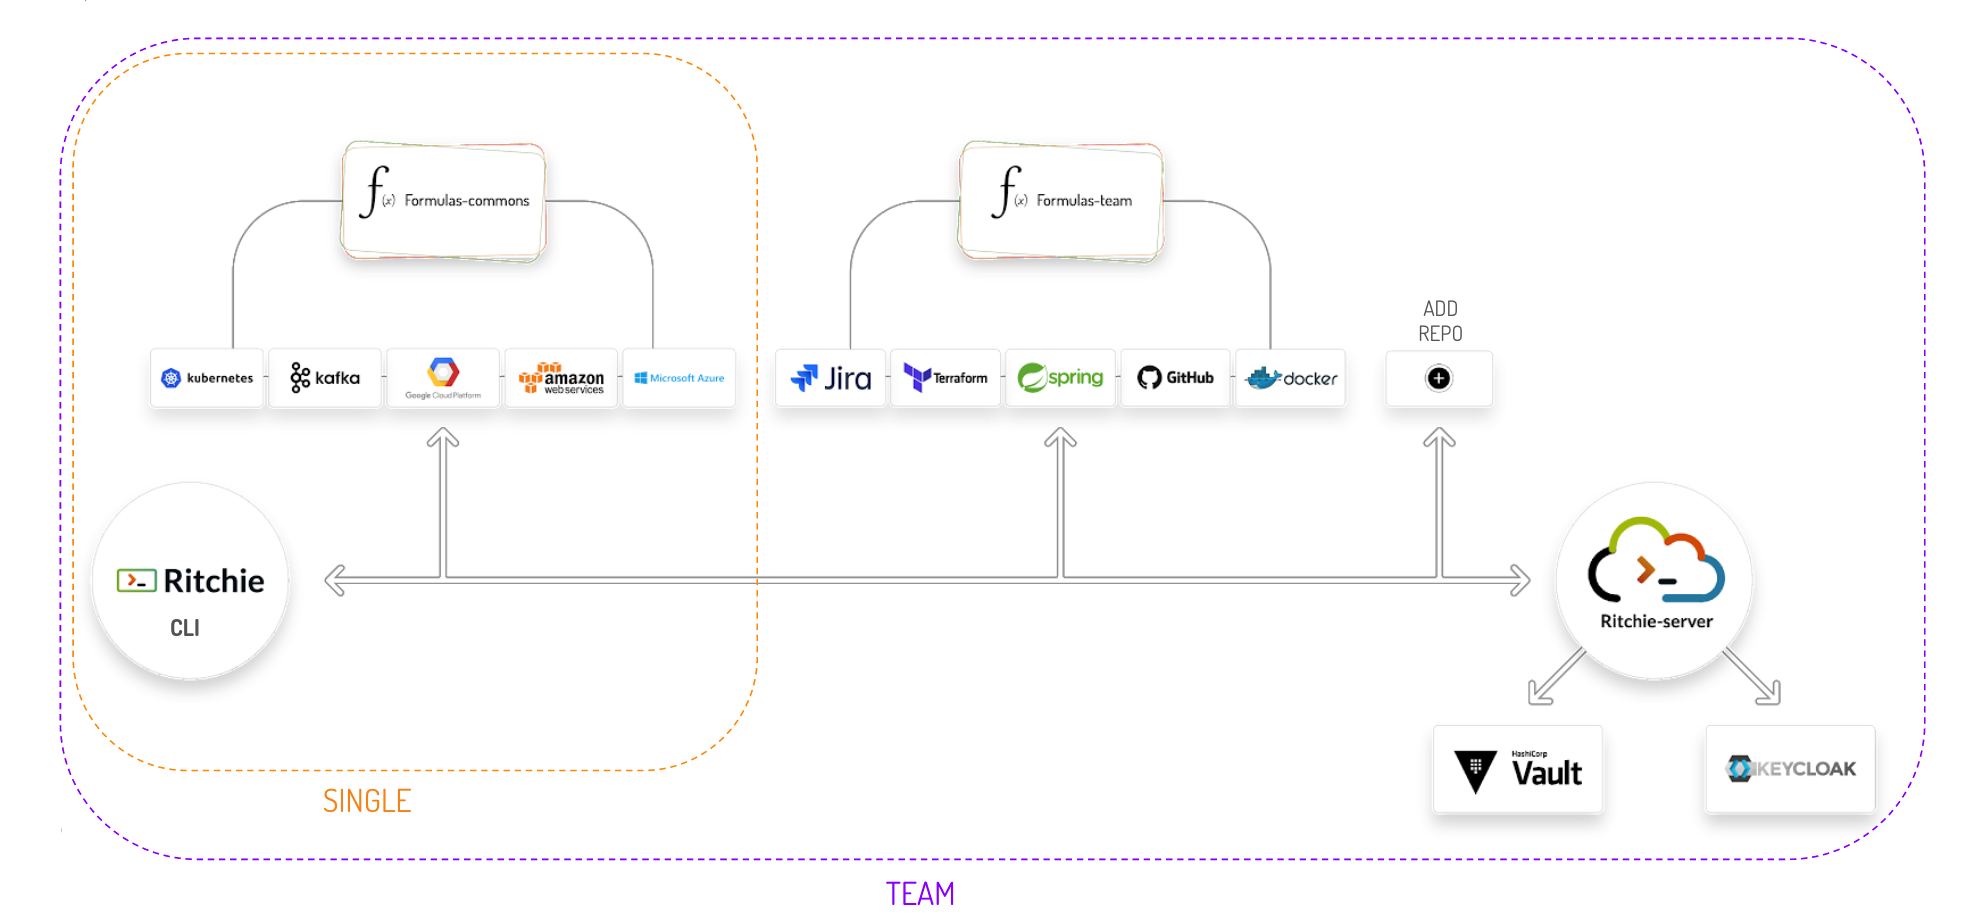
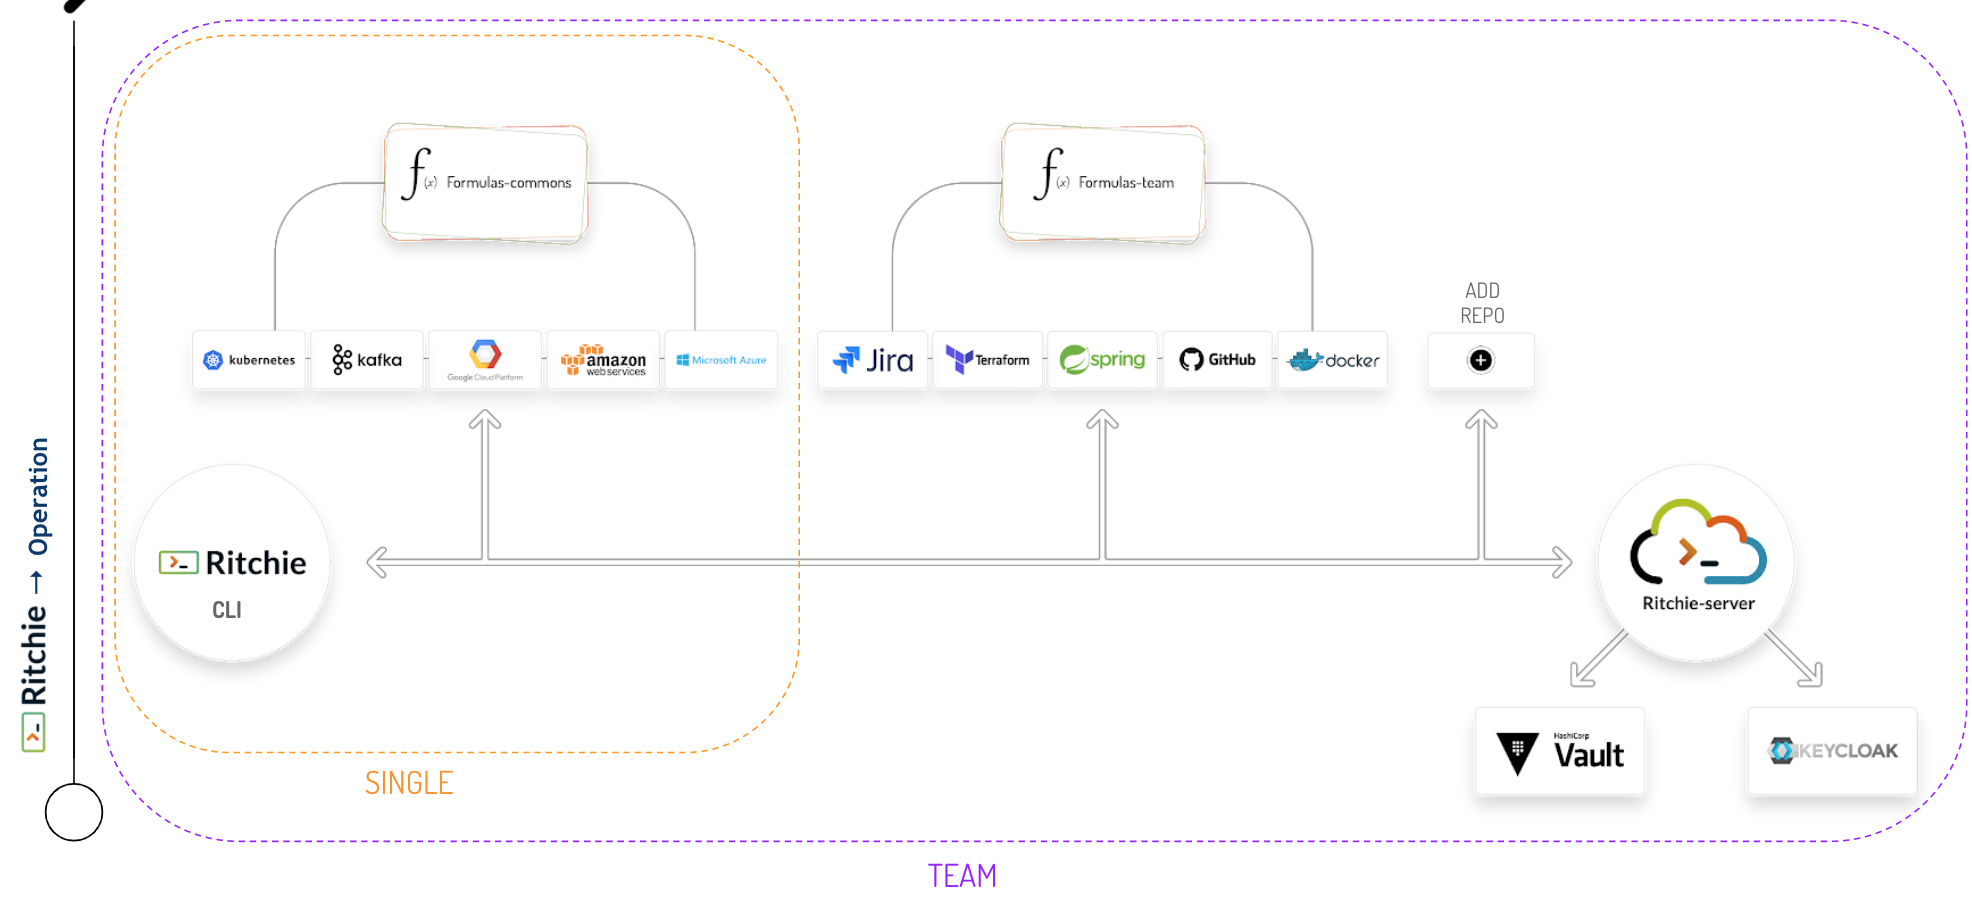
GitBook: [doc-portuguese] 48 pages and 4 assets modified

diff --git a/primeiros-passos/arquitetura-do-sistema-1/README.md b/primeiros-passos/arquitetura-do-sistema-1/README.md
@@ -1,6 +1,6 @@
 # Arquitetura do sistema
 
-![](../../.gitbook/assets/team-and-single%20%281%29.png)
+![](../../.gitbook/assets/team-and-single%20%282%29.png)
 
 ### O que você encontrará aqui? 
 
